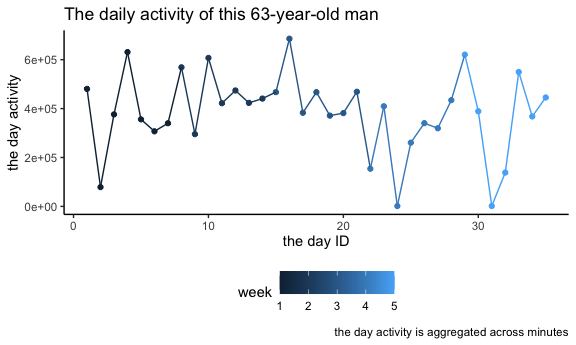
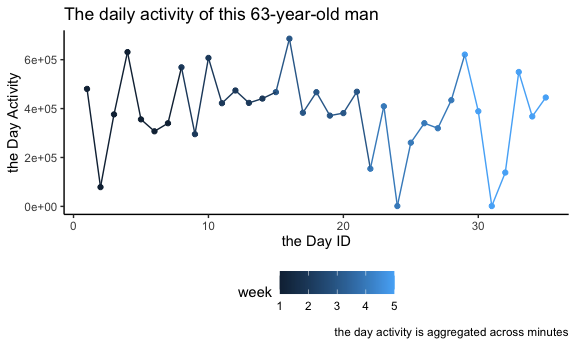
update in the temperature, snowfall and precipitation units. And make a boxplot to analysis the average tmax in January and July.

Changed region(s): [[0.0, 0.2029, 0.0312, 0.5217], [0.4688, 0.6667, 0.625, 0.7246]]

diff --git a/p8105_hw3_ax2173.md b/p8105_hw3_ax2173.md
@@ -134,8 +134,8 @@ acc_df %>%
   geom_line() +
   labs(
     title = 'The daily activity of this 63-year-old man',
-    x = 'the day ID',
-    y = 'the day activity',
+    x = 'the Day ID',
+    y = 'the Day Activity',
     caption = 'the day activity is aggregated across minutes'
   )
 ```
@@ -165,15 +165,24 @@ data("ny_noaa")
     -   This dataset had these variables: id, date, prcp, snow, snwd,
         tmax, tmin
     -   Almost all the data in this dataset are missing, in other words,
-        the extend of missing value is huge.
+        the extend of missing value is huge (I guess).
 
 Next, do the data cleaning and create separate variables for year, month
-and day.
+and day, and make sure that temperature, precipitation and snow fall are
+given in reasonable units.
 
 ``` r
-ny_nozz = 
+ny_noaa = 
   ny_noaa %>% 
   janitor::clean_names() %>% 
+  mutate(
+    tmax = as.double(tmax),
+    tmax = tmax/10,
+    tmin = as.double(tmin),
+    tmin = tmin/10,
+    prcp = prcp/10,
+    snow = snow/100
+    ) %>% 
   separate(date, into = c('year', 'month',  'day'), sep = '-')
 ```
 
@@ -189,12 +198,45 @@ ny_noaa %>%
   geom_density() +
     labs(
     title = 'The scatter plot of snowfall data',
-    x = 'snowfall',
-    y = 'snowfall_count',
-    caption = 'Data from noaa package'
+    x = 'Snowfall',
+    y = 'Snowfall Count',
+    caption = 'Data is from noaa package'
   )
 ```
 
     ## Warning: Removed 1 rows containing non-finite values (stat_density).
 
 <img src="p8105_hw3_ax2173_files/figure-gfm/unnamed-chunk-7-1.png" width="90%" />
+
+Make a two-panel plot showing the average max temperature in January and
+in July in each station across years. Is there any observable /
+interpretable structure? Any outliers?
+
+``` r
+ny_noaa %>% 
+  filter(month == '01' | month == '07')  %>% 
+  group_by(id, month) %>% 
+    summarize(average_tmax = mean(tmax, na.rm = TRUE)) %>% 
+  ggplot(aes(x = month, y = average_tmax)) +
+  geom_boxplot() +
+  labs(
+    title = 'The box plot of average max temperature in January and February',
+      x = 'Month',
+    y = 'Average Max Temperature',
+    caption = 'Data is from noaa package')
+```
+
+    ## `summarise()` has grouped output by 'id'. You can override using the `.groups`
+    ## argument.
+
+    ## Warning: Removed 876 rows containing non-finite values (stat_boxplot).
+
+<img src="p8105_hw3_ax2173_files/figure-gfm/unnamed-chunk-8-1.png" width="90%" />
+
+ny_noaa %\>% filter(month == ‘01’ \| month == ‘07’) %\>%
+group_by(station, month) %\>% summarize(average_tmax = mean(tmax, na.rm
+= TRUE)) %\>% ggplot(aes(x = station, y = average_tmax, color =
+station)) + geom_point() + facet_grid(. \~ month) + labs( title = ‘The
+scatter plot of average max temperature in Januart and February’, x =
+‘Station’, y = ‘Average Max Temperature’, caption = ‘Data is from noaa
+package’)
